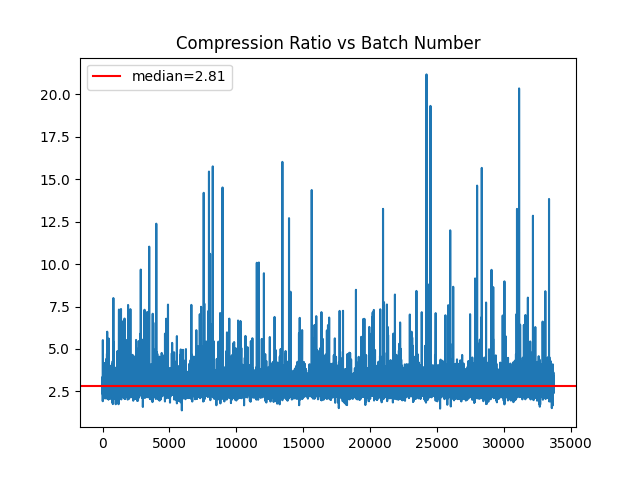
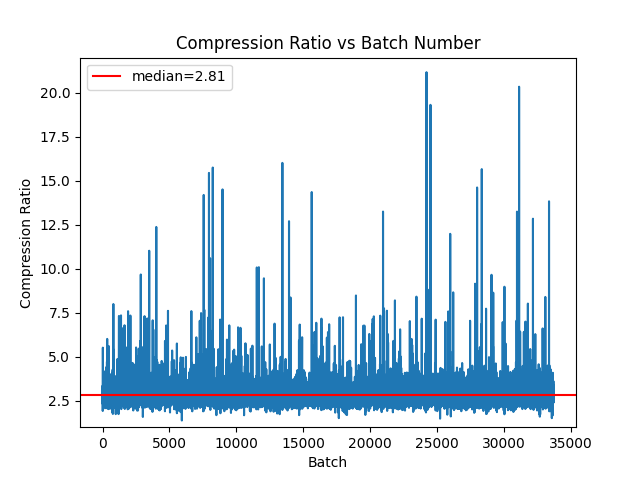
v2

diff --git a/code/utils.py b/code/utils.py
@@ -10,63 +10,79 @@ from dotenv import (
     find_dotenv
 )
 
-
 ################################################################################
 # os
 ################################################################################
-def get_env(key):
+def get_env(key: str, raise_on_none: bool=False) -> str:
     load_dotenv(find_dotenv())
     value = os.environ.get(key)
-    if not value:
-        raise Exception(f"set environment variable {key} or add it to .env file")
+    if value is None:
+        if raise_on_none:
+            raise Exception(f"export environment variable {key} or add it to .env file")
+        return ""
     return value
 
 ################################################################################
 # compression
 ################################################################################
-def compress_json(data):
+def compress_json(json_data: dict) -> bytes:
     return brotli.compress(json.dumps(data).encode("utf-8"))
 
-def decompress_json(compressed_data):
+def decompress_json(compressed_data: bytes) -> dict:
     return json.loads(brotli.decompress(compressed_data))
 
 ################################################################################
 # ethereum
 ################################################################################
-def event_topic(event_signature):
+def keccak256(data: bytes) -> bytes:
     hasher = keccak.new(digest_bits=256)
-    hasher.update(event_signature.encode("utf-8"))
-    return "0x" + hasher.hexdigest()
+    hasher.update(data)
+    return hasher.digest()
 
-def function_selector(function_signature):
-    return event_topic(function_signature)[0:10]
+def log_topic(event_sig: str) -> str:
+    return "0x" + keccak256(event_sig.encode("utf-8")).hex()
+
+def fn_selector(fn_sig: str) -> str:
+    return "0x" + keccak256(fn_sig.encode("utf-8"))[0:4].hex()
 
 def decode_fn(calldata, arg_types, arg_fields):
-    decoded_tuple = eth_abi.decode_abi(arg_types, codecs.decode(calldata, "hex_codec"))
-    decoded = {}
+    decoded_tuple = eth_abi.decode_abi(
+        arg_types, codecs.decode(calldata, "hex_codec")
+    )
+    decoded_dict = {}
     for f, field in enumerate(arg_fields):
-        decoded[field] = decoded_tuple[f]
-    return decoded
+        decoded_dict[field] = decoded_tuple[f]
+    return decoded_dict
 
-def eth_request(url_provider, method, params):
-    return requests.post(url_provider, json={
+def eth_request(provider_url, method, params):
+    return requests.post(provider_url, json={
         "id": 0,
         "jsonrpc": "2.0",
         "method": method,
         "params": params
     }).json()
 
-def get_logs(url_provider, from_block, to_block, topic):
+def get_logs(provider_url, from_block, to_block, topic):
     params = [{
         "fromBlock": hex(from_block),
         "toBlock": hex(to_block),
         "topics": [topic]
     }]
-    return eth_request(url_provider, "eth_getLogs", params)
+    return eth_request(provider_url, "eth_getLogs", params)
 
-def get_transaction_by_hash(url_provider, transaction_hash):
+def get_transaction_by_hash(provider_url, transaction_hash):
     params = [transaction_hash]
-    return eth_request(url_provider, "eth_getTransactionByHash", params)
+    return eth_request(provider_url, "eth_getTransactionByHash", params)
+
+class Provider:
+    def __init__(self, provider_url):
+        self.provider_url = provider_url
+
+    def get_logs(self, from_block, to_block, topic):
+        return get_logs(self.provider_url, from_block, to_block, topic)
+
+    def get_transaction_by_hash(self, transaction_hash):
+        return get_transaction_by_hash(self.provider_url, transaction_hash)
 
 ################################################################################
 # sequencer
@@ -86,7 +102,7 @@ arg_fields = [
     ["transactions", "lengths", "sectionsMetadata", "afterAcc"],
 ]
 
-decoders = { f"{function_selector(signatures[i])}": lambda calldata: decode_fn(calldata, arg_types[i], arg_fields[i]) for i in range(len(signatures)) }
+decoders = { f"{fn_selector(signatures[i])}": lambda calldata: decode_fn(calldata, arg_types[i], arg_fields[i]) for i in range(len(signatures)) }
 
 def decode_by_function_selector(calldata):
     selector = calldata[0:10]

diff --git a/code/plot_data.py b/code/plot_data.py
@@ -22,10 +22,11 @@ for d in data:
 
 compression_ratios = np.array(compression_ratios)
 cost_ratios = np.array(cost_ratios)
+overestimation_ratios = compression_ratios/cost_ratios
 
 median_compression = np.median(compression_ratios)
 median_cost = np.median(cost_ratios)
-median_ratio = np.median(compression_ratios/cost_ratios)
+median_overestimation = np.median(overestimation_ratios)
 
 print(f"Max compression ratio: {compression_ratios.max()}")
 print(f"Median compression ratio: {median_compression}")
@@ -35,11 +36,16 @@ print(f"Max cost ratio: {cost_ratios.max()}")
 print(f"Median cost ratio: {median_cost}")
 print(f"Min cost ratio: {cost_ratios.min()}")
 
+hist_range=(1, 5)
+hist_y_lims=(1, 500)
+plot_y_lims=(1, 22)
+
 plt.title("Compression Ratio")
-plt.hist(compression_ratios, bins=1000, range=(1, 7))
+plt.hist(compression_ratios, bins=1000, range=hist_range)
 plt.axvline(median_compression, label=f"median = {median_compression:.2f}", color="red")
 plt.ylabel('N')
 plt.xlabel("Compression Ratio")
+plt.ylim(*hist_y_lims)
 plt.legend()
 if save:
     plt.savefig(f"{output_dir}/compression_ratio_hist.png")
@@ -48,10 +54,11 @@ if show:
 plt.close("all")
 
 plt.title("Cost Ratio")
-plt.hist(cost_ratios, bins=1000, range=(1, 7))
+plt.hist(cost_ratios, bins=1000, range=hist_range)
 plt.axvline(median_cost, label=f"median = {median_cost:.2f}", color="red")
 plt.ylabel('N')
 plt.xlabel("Cost Ratio")
+plt.ylim(*hist_y_lims)
 plt.legend()
 if save:
     plt.savefig(f"{output_dir}/cost_ratio_hist.png")
@@ -59,10 +66,27 @@ if show:
     plt.show()
 plt.close("all")
 
+plt.title("Overestimation Ratio")
+plt.hist(overestimation_ratios, bins=1000, range=hist_range)
+plt.axvline(median_overestimation, label=f"median = {median_cost:.2f}", color="red")
+plt.ylabel('N')
+plt.xlabel("Overestimation Ratio")
+plt.ylim(*hist_y_lims)
+plt.legend()
+if save:
+    plt.savefig(f"{output_dir}/overestimation_ratio_hist.png")
+if show:
+    plt.show()
+plt.close("all")
+
+
 x = np.arange(len(compression_ratios))
 plt.title("Compression Ratio vs Batch Number")
 plt.plot(x, compression_ratios)
 plt.axhline(median_compression, label=f"median={median_compression:.2f}", color="red")
+plt.xlabel("Batch")
+plt.ylabel("Compression Ratio")
+plt.ylim(*plot_y_lims)
 plt.legend()
 if save:
     plt.savefig(f"{output_dir}/compression_ratio.png")
@@ -75,7 +99,7 @@ plt.plot(x, cost_ratios)
 plt.axhline(median_cost, label=f"median={median_cost:.2f}", color="red")
 plt.xlabel("Batch")
 plt.ylabel("Cost Ratio")
-# plt.ylim(1, 5)
+plt.ylim(*plot_y_lims)
 plt.legend()
 if save:
     plt.savefig(f"{output_dir}/cost_ratio.png")
@@ -85,9 +109,10 @@ plt.close("all")
 
 plt.title("Overestimation Ratio vs Batch Number")
 plt.plot(x, compression_ratios/cost_ratios)
-plt.axhline(median_ratio, label=f"median={median_ratio:.2f}", color="red")
+plt.axhline(median_overestimation, label=f"median={median_overestimation:.2f}", color="red")
 plt.xlabel("Batch")
 plt.ylabel("Overestimation")
+plt.ylim(*plot_y_lims)
 plt.legend()
 if save:
     plt.savefig(f"{output_dir}/overestimation_ratio.png")

diff --git a/code/get_batch_logs.py b/code/get_batch_logs.py
@@ -1,15 +1,15 @@
 import json
 from utils import (
-    event_topic,
+    log_topic,
     get_logs,
     get_env
 )
 
 eth_provider_url = get_env("ETH_PROVIDER_URL")
-sequencer_batch_delivered = event_topic(
+sequencer_batch_delivered = log_topic(
     "SequencerBatchDelivered(uint256,bytes32,uint256,bytes32,bytes,uint256[],uint256[],uint256,address)"
 )
-sequencer_batch_delivered_from_origin = event_topic(
+sequencer_batch_delivered_from_origin = log_topic(
     "SequencerBatchDeliveredFromOrigin(uint256,bytes32,uint256,bytes32,uint256)"
 )
 
@@ -17,7 +17,6 @@ first_block = 13318918
 end_block = 14413651
 step = 2000
 transaction_hashes = []
-total_batches = 0
 offset = 0
 
 for i in range(first_block, end_block - step, step):
@@ -30,7 +29,6 @@ for i in range(first_block, end_block - step, step):
         results = response["result"]
         if not len(results):
             continue
-        total_batches += len(results)
         next_transaction_hashes = [result["transactionHash"] for result in results]
         for t in next_transaction_hashes:
             if t in transaction_hashes:
@@ -40,13 +38,11 @@ for i in range(first_block, end_block - step, step):
         with open(f"../data/logs/{i}_{i+step}.json", "w+") as f:
             json.dump(results, f, indent=2)
 
-    print(f"total_batches: {total_batches}")
-
 print(f"total transaction hashes: {len(transaction_hashes)}")
 
 with open("../data/logs_info.json", "w+") as f:
     json.dump({
-        "event_topic": sequencer_batch_delivered_from_origin,
+        "log_topic": sequencer_batch_delivered_from_origin,
         "total_batches": total_batches,
         "from_block": first_block,
         "to_block": end_block,

diff --git a/code/simulate.py b/code/simulate.py
@@ -8,7 +8,7 @@ def count_zeros(calldata: bytes):
     for i in range(total):
         if calldata[i] == 0:
             num += 1
-    return num, total - num, total
+    return (num, total - num, total)
 
 def compute_l1_cost(n_zeros, n_nonzeros):
     return (4 * n_zeros) + (16 * n_nonzeros)
@@ -24,7 +24,7 @@ def analyze_calldata(calldata_tuple: bytes, compressed: bool=False):
         )
         compression_ratio = size / compressed_size
         cost_ratio = cost / compressed_cost
-        result = (fname, {
+        return (fname, {
             "compressed_n_zeros": compressed_n_zeros,
             "compressed_size": compressed_size,
             "compressed_cost": compressed_cost,
@@ -36,9 +36,8 @@ def analyze_calldata(calldata_tuple: bytes, compressed: bool=False):
             "space_saving": 1 - 1 / compression_ratio,
             "gas_saving": 1 - 1 / cost_ratio
         })
-        return result
     else:
-        return n_zeros, size, cost
+        return (n_zeros, size, cost)
 
 if __name__ == "__main__":
     import os
@@ -74,7 +73,6 @@ if __name__ == "__main__":
     print(f"Preparing batch data using {n} processes")
     with Pool(n) as p:
         calldatas = p.map(prepare_batch, batch_files)
-
     for calldata in calldatas[::-1]:
         if calldata is None:
             calldatas.pop(calldatas.index(calldata))
@@ -92,5 +90,4 @@ if __name__ == "__main__":
         json.dump(results, f, indent=2)
 
     elapsed = time.perf_counter() - start
-    print(f"Total time to simulate: {elapsed} seconds")
-    print(f"Total time to simulate: {elapsed/60.0} minutes")
+    print(f"Total time to simulate: {elapsed:.2f} seconds or {elapsed/60.0:.2f} minutes")

diff --git a/README.md b/README.md
@@ -19,17 +19,59 @@ ETH_PROVIDER_URL=<your eth provider url>
 ## Reproducing the Data
 The data was retrieved from the blockchain in a two-step process. It's not the most efficient code, but it got the job done. Fair warning, the transactions input data takes up about 5GiB of disk space.
 
-First, we detect all batches that were submitted by the Arbitrum sequencer by parsing logs for the relevant log event. The event only emits a hash of the transactions data, but we'll get the raw transactions data in the second step. We use the `eth_getLogs` rpc method to get logs. This creates individual log files in [logs](./data/logs), and it creates a file with general data about all of the batches in [logs_info.json](./data/logs_info.json).
+First, we need to find where the data is. We begin by querying an Ethereum L1 node's json rpc for log events matching these event signatures:
+```solidity
+// source: https://github.com/OffchainLabs/arbitrum/blob/master/packages/arb-bridge-eth/contracts/bridge/interfaces/ISequencerInbox.sol
+
+event SequencerBatchDelivered(
+      uint256 indexed firstMessageNum,
+      bytes32 indexed beforeAcc,
+      uint256 newMessageCount,
+      bytes32 afterAcc,
+      bytes transactions,
+      uint256[] lengths,
+      uint256[] sectionsMetadata,
+      uint256 seqBatchIndex,
+      address sequencer
+  );
+
+event SequencerBatchDeliveredFromOrigin(
+    uint256 indexed firstMessageNum,
+    bytes32 indexed beforeAcc,
+    uint256 newMessageCount,
+    bytes32 afterAcc,
+    uint256 seqBatchIndex
+);
+```
+The `SequencerBatchDeliveredFromOrigin` doesn't emit the transactions data, but we'll get the raw transactions data in the second step. We use the `eth_getLogs` rpc method to get logs. This creates individual log files in [logs](./data/logs), and it creates a file with general data about all of the batches in [logs_info.json](./data/logs_info.json).
 ```sh
 (venv) $ python3 get_batch_logs.py
 ```
 
-Second, we retrieve the transaction inputs of each batch, which gives us the actual transaction data that will be compressed. This script takes a while: the eth json rpc method `eth_getTransactionByHash` only accepts one hash at a time... I'm sure there's a better method but I adapted [some code](https://blog.jonlu.ca/posts/async-python-http) that parallelizes the network requests, so it's still decently fast considering it's querying 33k+ logs.
+Second, we retrieve the transaction inputs of each batch, which gives us the actual transaction data that will be compressed. This script takes a while: the eth json rpc method `eth_getTransactionByHash` only accepts one hash at a time. I'm sure there's a better method but I adapted [some code](https://blog.jonlu.ca/posts/async-python-http) that parallelizes the network requests, so it's still decently fast considering it's querying 33k+ logs. It downloads about 5GiB of data from the node.
 ```sh
 (venv) $ python3 get_batch_transactions.py
 ```
 
-We have all of the raw data in [logs](./data/logs) and [transactions](./data/transactions). We are interested in the "input" parameter in particular, which can be decoded to retrieve the arguments of the original `addSequencerL2BatchFromOrigin(bytes,uint256[],uint256[],bytes32)` function call.
+We have all of the raw data in [logs](./data/logs) and [transactions](./data/transactions). We are interested in the "input" parameter in particular, which can be decoded to retrieve the arguments of one of the original function calls:
+```
+// source: https://github.com/OffchainLabs/arbitrum/blob/master/packages/arb-bridge-eth/contracts/bridge/SequencerInbox.sol
+
+function addSequencerL2BatchFromOrigin(
+  bytes transactions,
+  uint256[] lengths,
+  uint256[] sectionsMetadata,
+  bytes32 afterAcc
+) { /* ... */ }
+
+function addSequencerL2BatchFromOriginWithGasRefunder(
+  bytes transactions,
+  uint256[] lengths,
+  uint256[] sectionsMetadata,
+  bytes32 afterAcc,
+  address gasRefunder
+) { /* ... */ }
+```
 
 ## Generating the Results
 
@@ -56,16 +98,21 @@ To understand the results, let's first glance at an individual results file.
 ```
 
 1. Delineate calldata into the number of zero bytes and number of nonzero bytes present. Each type of byte has its own gas cost for being submitted to the Ethereum chain, (4 gas and 16 gas, respectively).
-2. Compress the calldata.
- - Use all of the encoded calldata for compression (`transactions`, `lengths`, `sectionsMetadata`, etc.)
- - Use only the decoded `transactions` argument from the function call (this is V2)
-3. Compute the cost ratio using the L1 costs of submitting calldata before and after compression.
-    ```python
-    def compute_l1_cost(calldata: bytes):
-        n_zeros, n_nonzeros = count_zeros(calldata)
-        return (4 * n_zeros) + (16 * n_nonzeros)
-    ```
+2. Compress the calldata using two methods.
+ - Use *all* of the `data` parameter of the sequencer L1 batch transaction, except for the function selector.
+ - V2: Use only the decoded `transactions` argument from the function call.
+3. Compute the compression ratio by the change in calldata length. 
+4. Compute the cost ratio by the change in cost of L1 calldata.
+5. Compute the "overestimation ratio" by the ratio of compression ratio to cost ratio.
 
 ## Visualizing the Results
 
-The two versions can be found in [images](./data/images) and [imagesV2](./data/imagesV2).
+The [V2 results](./data/imagesV2), where only the calldata of the concatenated L2 transaction data is compressed, are presented here. The batch numbers are in order of the time that they were submitted to L1. The plots share limits on the axes to illustrate their overall relative difference.
+
+![compression ratio](./data/imagesV2/compression_ratio.png)
+![cost ratio](./data/imagesV2/cost_ratio.png)
+![overestimation ratio](./data/imagesV2/overestimation_ratio.png)
+
+![compression ratio histogram](./data/imagesV2/compression_ratio_hist.png)
+![cost ratio histogram](./data/imagesV2/cost_ratio_hist.png)
+![overestimation ratio histogram](./data/imagesV2/overestimation_ratio_hist.png)
